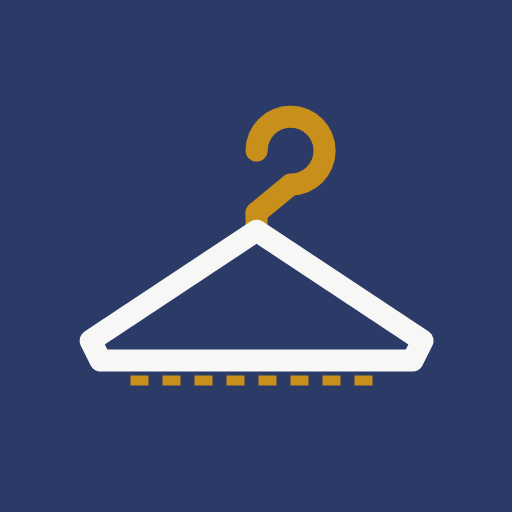
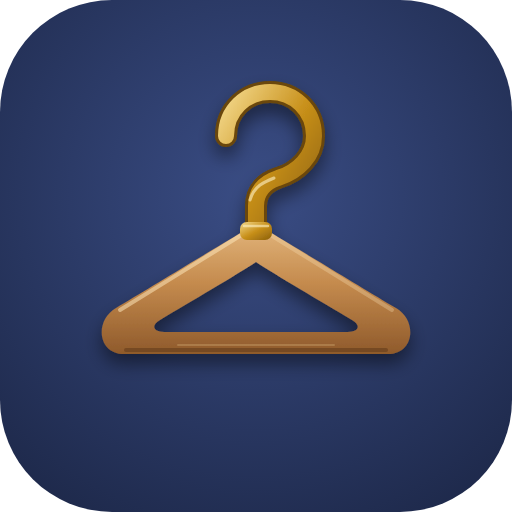
Pambry : nouvelle icone cintre en bois

diff --git a/sw.js b/sw.js
@@ -1,6 +1,6 @@
-/* Penderie : fonctionnement hors ligne. Changer VERSION à chaque mise à jour de l'appli. */
-const VERSION = 'penderie-v3';
-const TOOLS = 'penderie-detecteur'; // moteur et modèle de détection de posture, gardés d'une version à l'autre
+/* Penderie : fonctionnement hors ligne. Changer VERSION Ã  chaque mise Ã  jour de l'appli. */
+const VERSION = 'penderie-v4';
+const TOOLS = 'penderie-detecteur'; // moteur et modÃ¨le de dÃ©tection de posture, gardÃ©s d'une version Ã  l'autre
 const FILES = ['./', 'index.html', 'style.css', 'app.js', 'calib-presets.js', 'manifest.webmanifest', 'icon.svg', 'icon-192.png', 'icon-512.png'];
 
 self.addEventListener('install', e => {
@@ -12,12 +12,12 @@ self.addEventListener('activate', e => {
 self.addEventListener('fetch', e => {
   if (e.request.method !== 'GET') return;
   const url = new URL(e.request.url);
-  /* détecteur : cache d'abord, il ne change pas (version figée) */
+  /* dÃ©tecteur : cache d'abord, il ne change pas (version figÃ©e) */
   if (url.href.startsWith('https://cdn.jsdelivr.net/npm/@mediapipe/') || url.href.startsWith('https://storage.googleapis.com/mediapipe-models/')) {
     e.respondWith(caches.open(TOOLS).then(c => c.match(e.request).then(hit => hit || fetch(e.request).then(r => { if (r.ok) c.put(e.request, r.clone()); return r; }))));
     return;
   }
-  /* appli : réseau d'abord pour récupérer les mises à jour, cache si pas de réseau */
+  /* appli : rÃ©seau d'abord pour rÃ©cupÃ©rer les mises Ã  jour, cache si pas de rÃ©seau */
   if (url.origin !== location.origin) return;
   e.respondWith(
     fetch(e.request)
